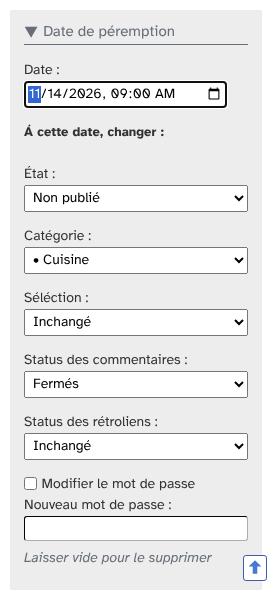
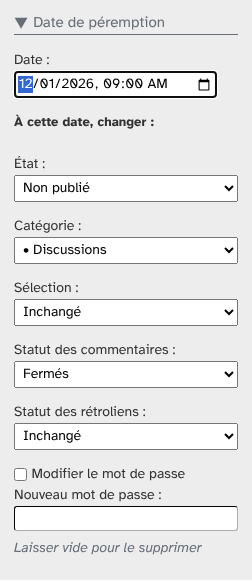
[cosmetic] User guide: follow the expired dates, notices and new entries fixes

Changed region(s): [[0.0556, 0.2478, 1.0, 0.9914], [0.0556, 0.031, 0.8889, 0.2478]]

diff --git a/docs/fr/utilisation.md b/docs/fr/utilisation.md
@@ -12,7 +12,7 @@ postExpired permet de programmer, pour un billet ou une page, des changements à
 
 ## Programmer un changement sur un billet
 
-Ouvrez un billet existant (ou une page). Dans la colonne de droite, une rubrique **Date de péremption** est repliée : cliquez dessus pour la déplier.
+Ouvrez un billet (ou une page), existant ou nouveau. Dans la colonne de droite, une rubrique **Date de péremption** est repliée : cliquez dessus pour la déplier.
 
 ![Rubrique vide](img/billet-menu-vide.png)
 
@@ -23,16 +23,18 @@ Remplissez :
   * **État** : publié, en attente ou non publié.
   * **Catégorie** : une catégorie, ou « Sans catégorie » (billets seulement).
   * **Sélection** : sélectionné ou non (billets seulement).
-  * **Status des commentaires** et **des rétroliens** : ouverts ou fermés.
+  * **Statut des commentaires** et **des rétroliens** : ouverts ou fermés.
   * **Modifier le mot de passe** : cochez la case et saisissez le nouveau mot de passe. Laissé vide, le mot de passe du billet est supprimé.
 
 ![Rubrique remplie](img/billet-menu-rempli.png)
 
 Enregistrez le billet. La date et les changements sont mémorisés avec le billet : rouvrez-le pour les retrouver.
 
+Si la date est remplie sans aucun changement, ou si un changement est choisi sans date, rien n'est mémorisé et un message vous le signale.
+
 ## Programmer sur plusieurs billets
 
-Dans la liste des billets (ou des pages), cochez les billets, choisissez l'action **Ajouter une date de péremption** et validez. Une page vous demande la date et les changements, comme ci-dessus.
+Dans la liste des billets (ou des pages), cochez les billets, choisissez l'action **Ajouter une date de péremption** et validez. Une page vous demande la date et les changements, comme ci-dessus. Si la date ou les changements manquent, un message vous le signale et la page reste affichée.
 
 ![Action groupée](img/action-groupee.png)
 
@@ -40,19 +42,16 @@ Les billets choisis reçoivent tous la même date et les mêmes changements.
 
 ## Retirer une date de péremption
 
-* Sur un billet : videz la date, puis enregistrez. Ou laissez tous les changements sur « Inchangé » et enregistrez.
+* Sur un billet : videz la date, remettez tous les changements sur « Inchangé », puis enregistrez.
 * Sur plusieurs billets : cochez-les et choisissez l'action **Retirer une date de péremption**.
 
 ## Quand le changement a-t-il lieu ?
 
-Le plugin ne tourne pas en tâche de fond : la date est vérifiée quand un visiteur ouvre la **page d'accueil** ou un **flux** du blog. Une fois la date dépassée, les changements sont appliqués et la date de péremption est supprimée du billet.
+Le plugin ne tourne pas en tâche de fond : la date est vérifiée à chaque ouverture d'une page du blog, côté public (par un visiteur) comme côté administration. Une fois la date dépassée, les changements sont appliqués et la date de péremption est supprimée du billet.
 
 Un billet n'a qu'une seule date de péremption.
 
 ## Bon à savoir
 
-* La date n'est enregistrée que si au moins un changement est choisi. Si vous remplissez la date seule, rien n'est mémorisé et aucun message ne vous prévient.
-* Tant que personne n'ouvre la page d'accueil ou un flux, le changement n'a pas lieu, même si la date est passée.
-* La rubrique n'apparaît pas dans le formulaire de création d'un nouveau billet : enregistrez d'abord le billet.
-* Le plugin fournit aussi des balises pour les thèmes (`EntryExpiredIf`, `EntryExpiredDate`, `EntryExpiredTime`) afin d'afficher la date de péremption sur le blog.
-* Plusieurs textes de l'interface en français contiennent des fautes : « péremtion », « Séléction », « Status des commentaires », « Dtae de péremtion supprimé ».
+* Tant que personne n'ouvre une page du blog ou de l'administration, le changement n'a pas lieu, même si la date est passée.
+* Le plugin fournit aussi des balises pour les thèmes (`EntryExpiredIf`, `EntryExpiredDate`, `EntryExpiredTime`) afin d'afficher la date de péremption sur le blog. Les dates sont affichées dans le fuseau horaire du billet.
